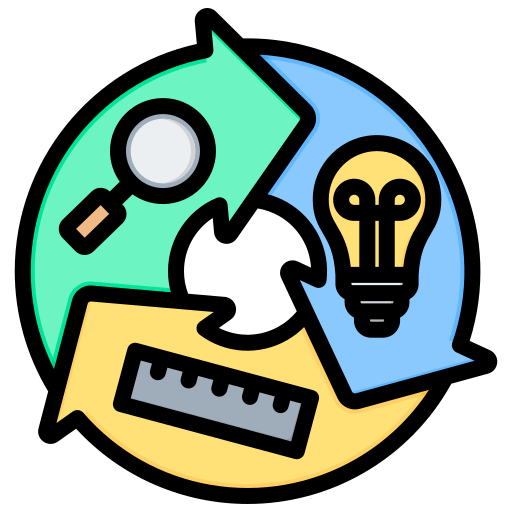
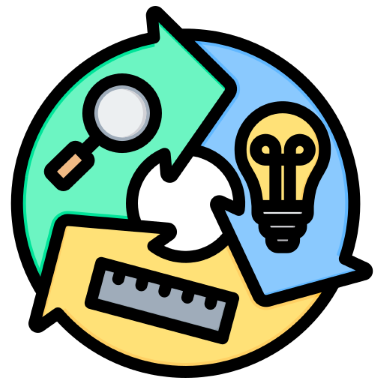
Work on Documentation
Write Measure section and beginn with analyse section.
Add Images and souce link

Changed region(s): [[0.7188, 0.4375, 0.75, 0.5312], [0.7188, 0.375, 0.75, 0.4062], [0.625, 0.5, 0.6562, 0.5312]]

diff --git a/documentation/Hauptteil/32_messen.md b/documentation/Hauptteil/32_messen.md
@@ -6,4 +6,36 @@ nav_order: 5
 ---
 # Messen (Measure) Phase
 
+Die Measure-Phase ist der zweite Schritt in einem Six Sigma Projekt. Hier werden aktuelle Prozesse gemessen, um eine Basislinie zu erstellen. Dies umfasst die Sammlung und Analyse von Daten, um die aktuelle Leistung zu verstehen und Verbesserungspotenziale zu identifizieren. Ziel ist es, eine klare Darstellung des aktuellen Zustands zu erhalten.
 
+![Measure](../../ressources/images/measure.png)
+[Quelle](../Quellverzeichnis/index.md#measure-phase)
+
+
+## Prozessbeschreibung
+
+Der bisherige Personaleintrittsprozess bei der ISE AG umfasst grob zusammengefast folgende Schritte:
+
+1. **Erstellung von Benutzerkonten**: Manuelle Einrichtung von Benutzerkonten für neue Mitarbeitende.
+2. **Bereitstellung von Ressourcen**: Manuelle Zuweisung von Arbeitsplätzen, IT-Ausstattung und Zugriffsrechten.
+3. **Checkliste**: Verwendung einer Checkliste, um sicherzustellen, dass alle notwendigen Schritte durchgeführt werden.
+
+## Ist-Zustand
+
+Der aktuelle Personaleintrittsprozess bei der MusterAG weist folgende Merkmale und Herausforderungen auf:
+
+- **Manuelle Durchführung**: Alle Schritte des Prozesses werden manuell durchgeführt.
+- **Abhängigkeit von Schlüsselpersonen**: Bestimmte Mitarbeitende sind für die Durchführung des Prozesses.
+- **Fehleranfälligkeit**: Die manuelle Bearbeitung kann fehleranfällig sein
+- **Checkliste als Leitfaden**: Eine Checkliste dient als Anhaltspunkt.
+
+## Datenerhebung
+
+Zur Analyse des aktuellen Prozesses wurden folgende Daten erhoben:
+
+- **Zeitaufwand**: Durchschnittliche Zeit, die für die Durchführung jedes Schrittes benötigt wird.
+- **Fehlerquote**: Häufigkeit von Fehlern und Nacharbeiten im Prozess.
+- **Ressourceneinsatz**: Anzahl der Mitarbeitenden, die in den Prozess involviert sind.
+- **Dokumentierung:** Wie der Prozess definiert wurde. 
+
+Die Ergebnisse der obenstehenden Daten werde ich bei der [Analyse](./33_analysieren.md) genauer analysieren und erläutern.

diff --git a/documentation/Hauptteil/33_analysieren.md b/documentation/Hauptteil/33_analysieren.md
@@ -1,0 +1,24 @@
+---
+layout: default
+title: 3.3 Analysieren
+parent: 3. Hauptteil
+nav_order: 6
+---
+# Analysieren (Analyze) Phase
+
+
+
+![Analyze](../../ressources/images/analyze.png)
+
+[Quelle](../Quellverzeichnis/index.md#analyze-phase)
+
+## Analyse der Daten
+
+Die Analyse der erhobenen Daten ergab folgende Erkenntnisse:
+
+- **Hoher Zeitaufwand**: Der manuelle Prozess ist zeitintensiv und führt zu Verzögerungen.
+- **Fehleranfälligkeit**: Die manuelle Durchführung kann häufig zu Fehlern führen, welche nachträglich korrigiert werden müssten.
+- **Abhängigkeiten**: Der Prozess ist stark von bestimmten Schlüsselpersonen abhängig, was zu Engpässen führen kann.
+
+
+

diff --git a/documentation/Hauptteil/31_definieren.md b/documentation/Hauptteil/31_definieren.md
@@ -10,7 +10,7 @@ Die Define-Phase ist der erste Schritt in einem Six Sigma Projekt. In dieser Pha
 
 ![Define](../../ressources/images/define.png)
 
-[Quelle](../Quellverzeichnis/index.md)
+[Quelle](../Quellverzeichnis/index.md#define-phase)
 
 ## Zielvorstellung
 Am Schluss der Semesterarbeit soll der Prozess so verfolgbar sein, dass die Zuständigen jederzeit den aktuellen Status des Auftrags abgefragt werden kann. So kann die Geschäftsleitung (GL) im Ernstfall nachhacken oder nochmals eine Erinnerung an die zuständige Person zusenden. 

diff --git a/documentation/Quellverzeichnis/index.md b/documentation/Quellverzeichnis/index.md
@@ -37,7 +37,8 @@ Bild mit KI generiert (<a href="https://copilot.cloud.microsoft/" target="_blank
 #### Measure Phase
 [Search results for Measure process - Flaticon](https://www.flaticon.com/free-icon/lean_9464400?term=measure+process&related_id=9464400)
 
-
+#### Analyze Phase
+[Search results for Evaluation and analysis - Flaticon](https://www.flaticon.com/free-icon/analysis_18517653?term=evaluation+and+analysis&page=1&position=55&origin=search&related_id=18517653)
 
 ### Sprints
 

diff --git a/documentation/Sprints/sprint2_13-12-2024.md b/documentation/Sprints/sprint2_13-12-2024.md
@@ -35,5 +35,6 @@ Aus diesem Grund habe ich da im Zeitplan den Task erweitert, dass dieser bis End
 
 ## Was wurde als Verbesserung vorgeschlagen?
 
-- 
+- Aktuell gibt es keine Verbesserungsvorschläge seitens Experten
 ## Was ist das weitere Vorgehen?
+Aktuell habe ich noch Probleme zwischen dem Camunda Formular und dem Camunda BPMN Prozess. Dafür werde ich Kontakt mit Thomas aufnehmen, damit wir dies miteinander anschauen können. 

diff --git a/documentation/Sprints/sprint3_10-01-2025.md b/documentation/Sprints/sprint3_10-01-2025.md
@@ -1,0 +1,28 @@
+---
+layout: default
+title: 4.2  2. Sprint 13-12-2024
+parent: 4. Sprints
+nav_order: 4
+---
+
+# 3. Sprint vom 10.01.2025
+
+## Welche Themen werden angeschaut:
+- 
+
+## Was lief gut?
+
+
+## Was lief weniger gut?
+
+
+
+## Gibt es Anpassungen am Projekt?
+
+
+
+
+## Was wurde als Verbesserung vorgeschlagen?
+
+- 
+## Was ist das weitere Vorgehen?
